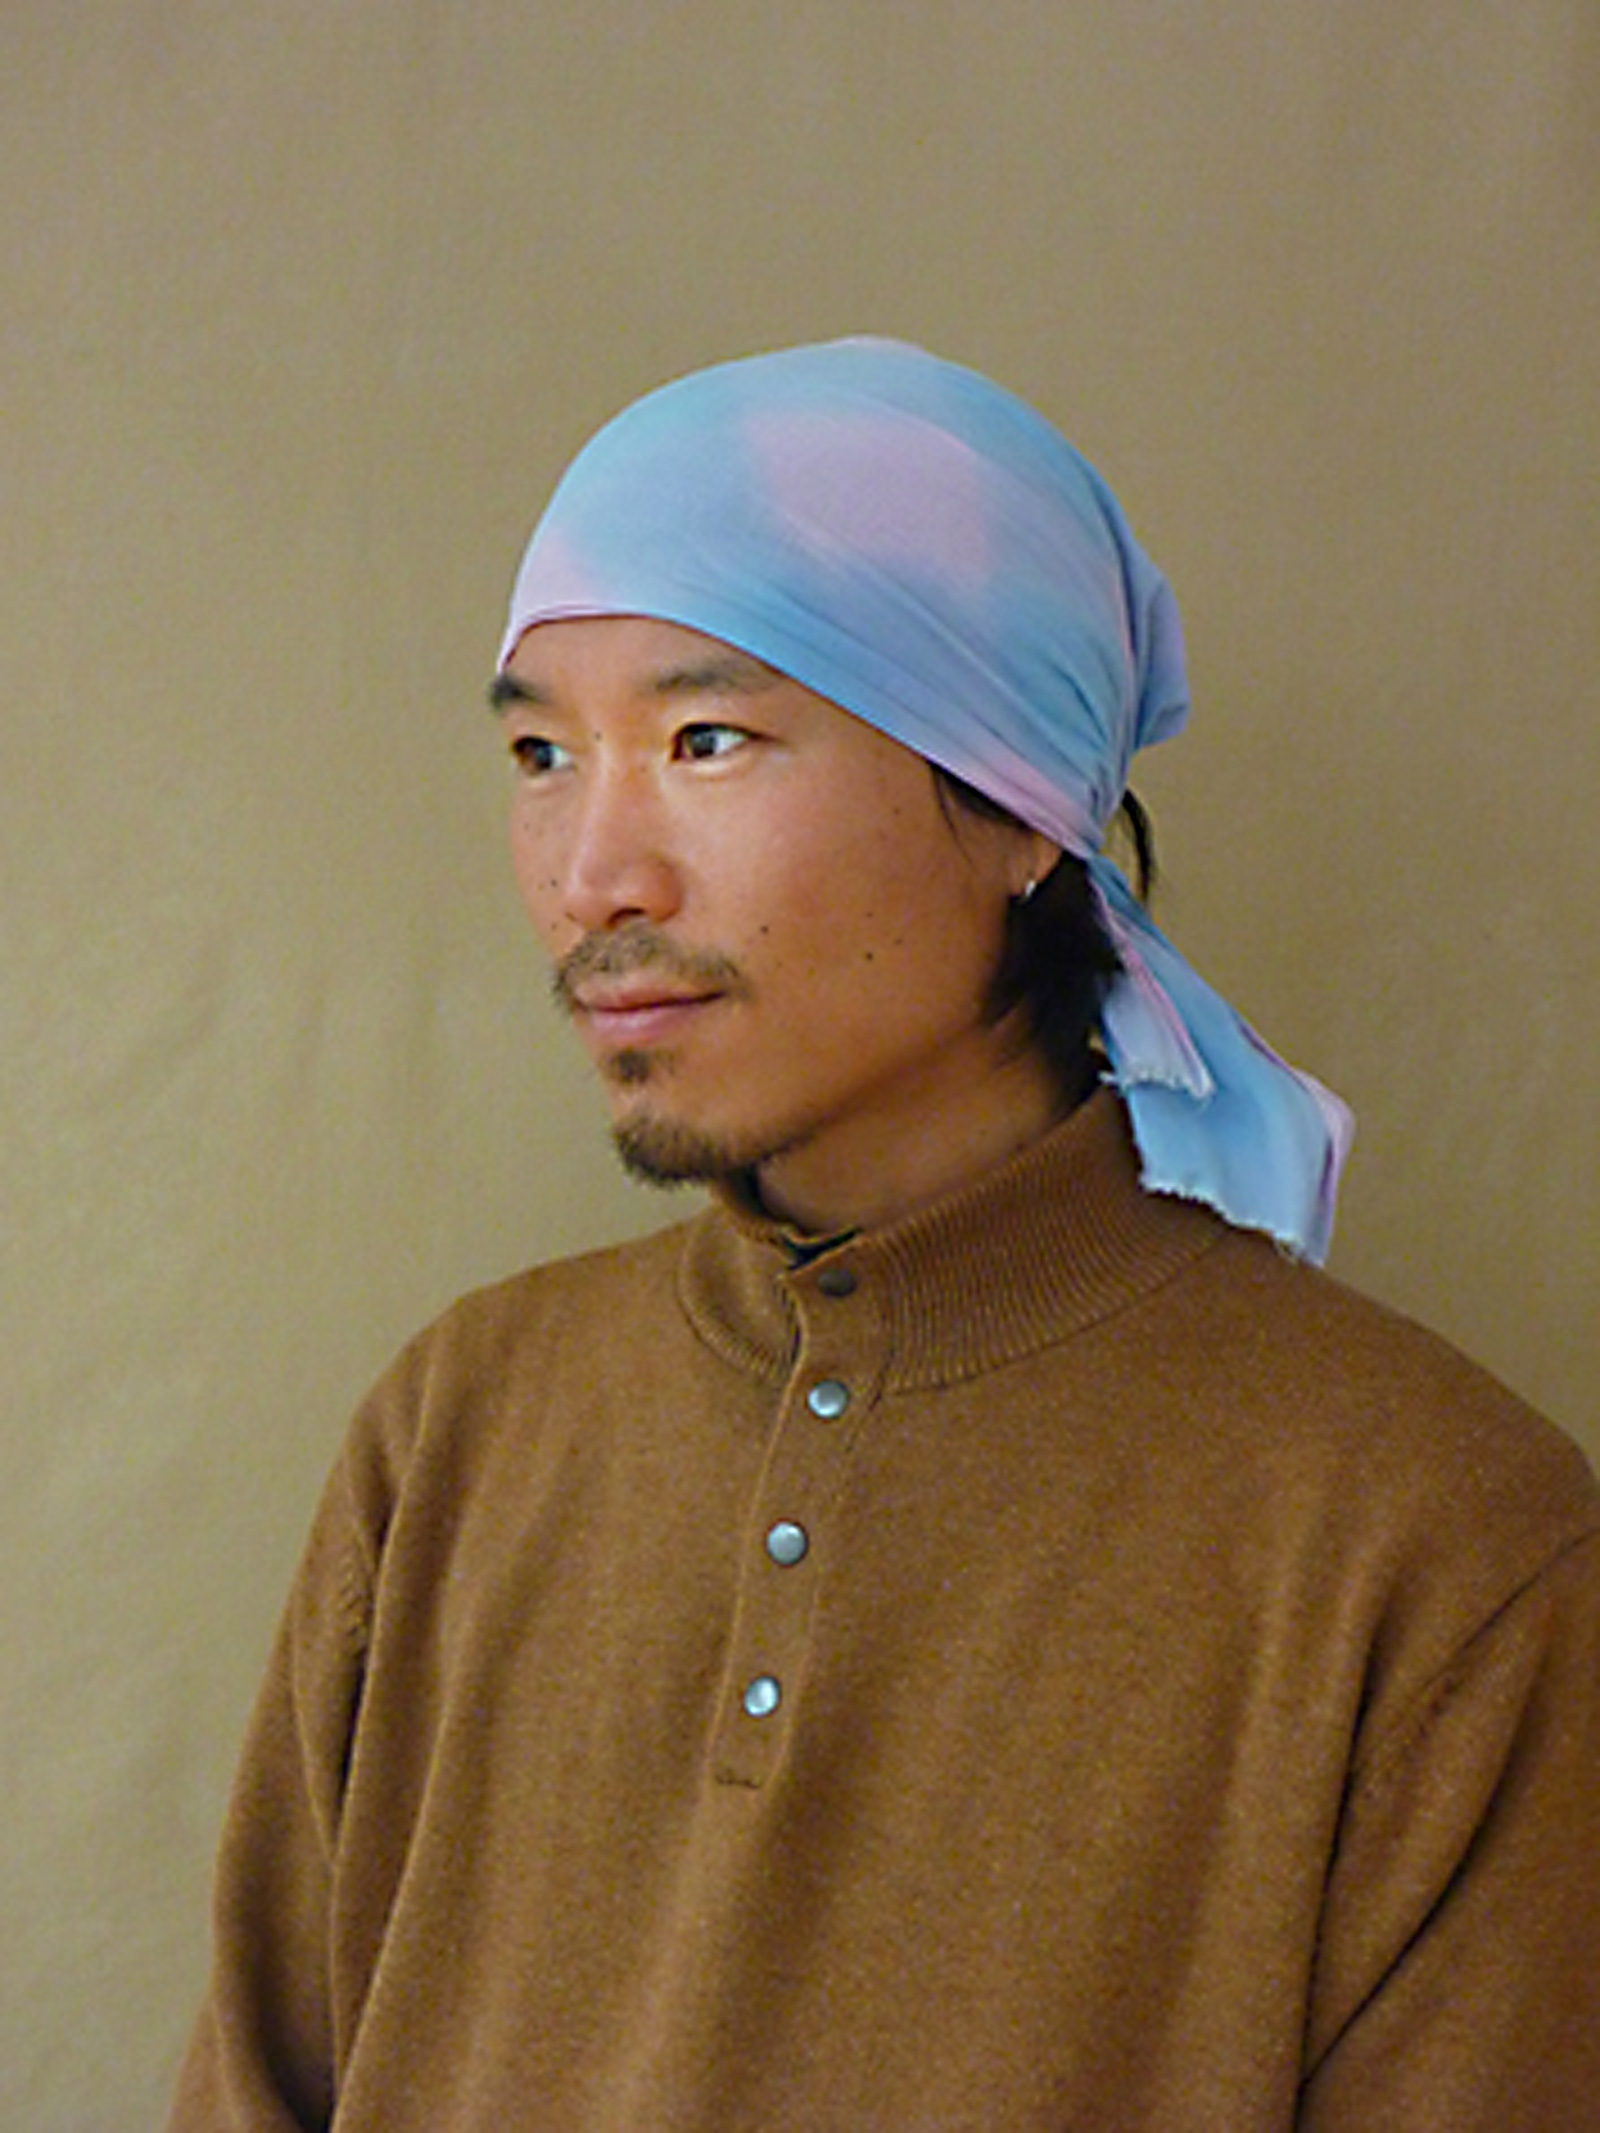
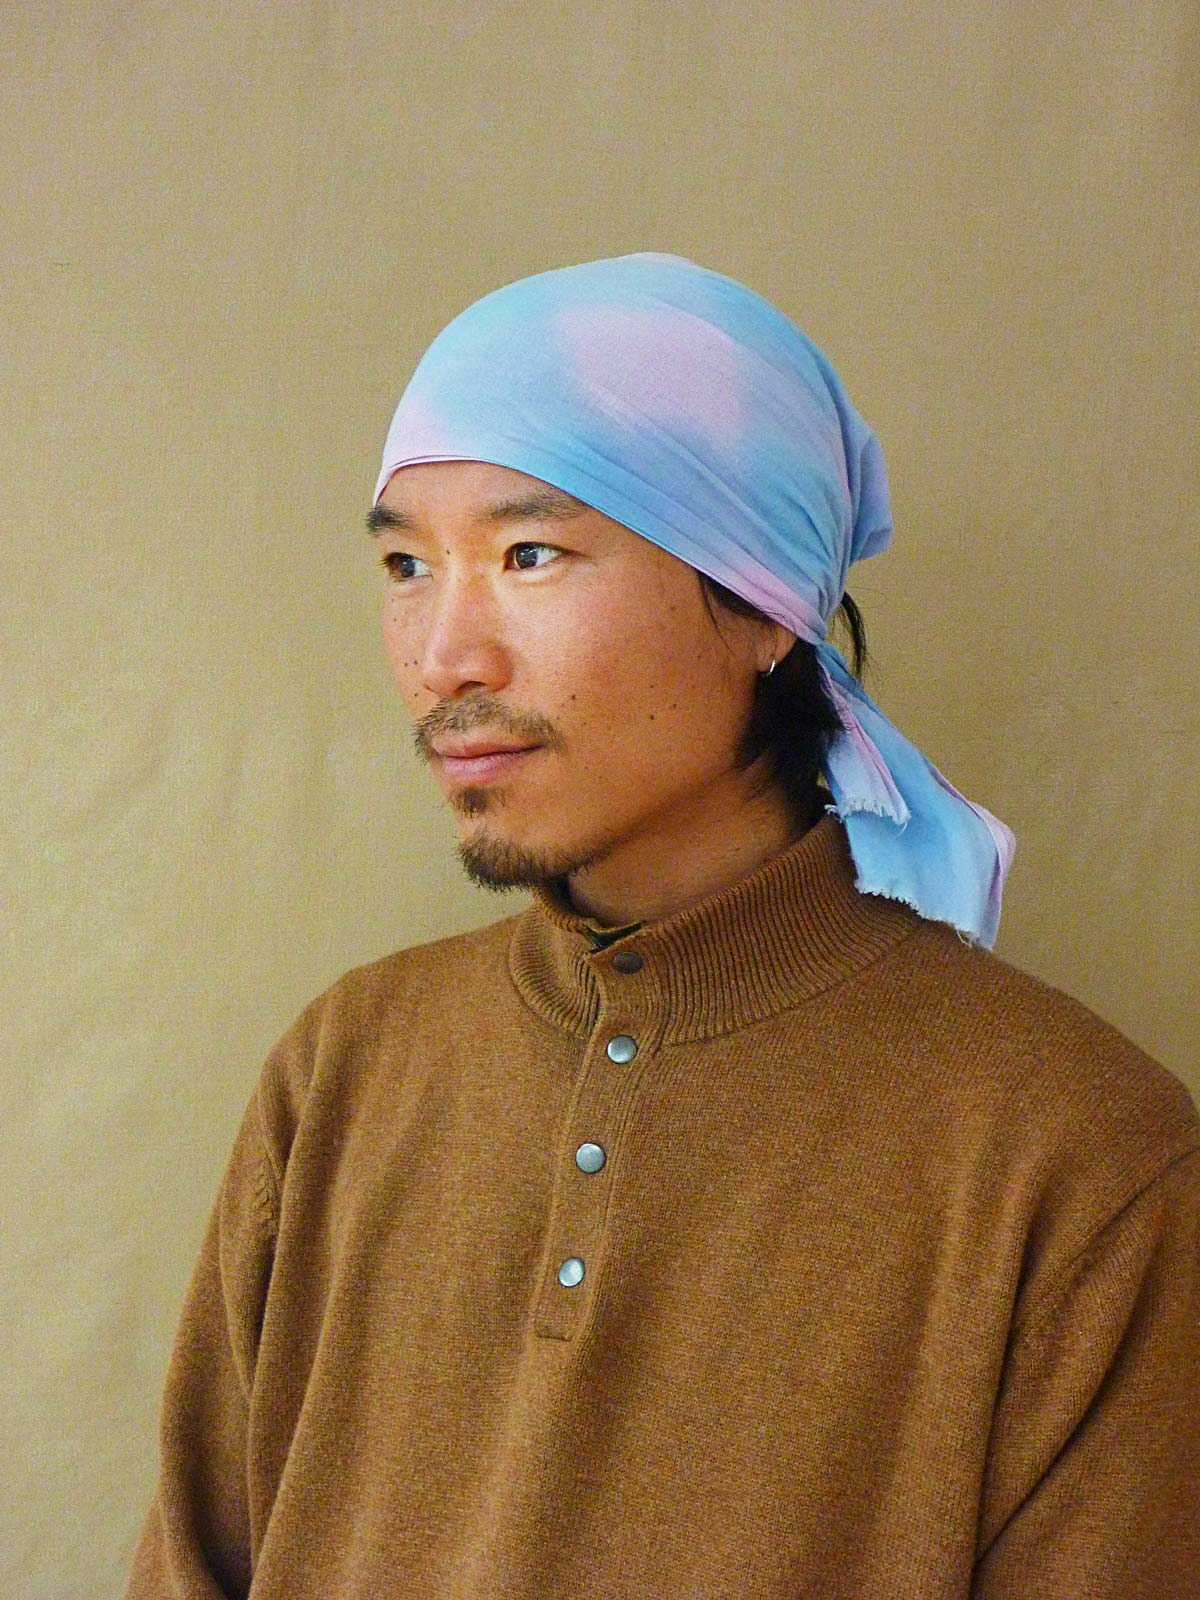
about picture high res added, + pictures are shown as landscape, @Todo: refactor classes

diff --git a/_includes/components.works.html b/_includes/components.works.html
@@ -11,7 +11,24 @@
 <section class="c-work o-flex o-flex--wrap o-flex--align-center">
     <div class="c-work__img {% if thecycle == 'odd' %}c-work__img-left {% else %}c-work__img-right {{ include.class-flex-start }} {% endif %}u-1-of-2-bp4">
         <div class="c-card c-card--alpha c-card--img">
-            {% if include.images %}
+            {% unless include.resume %}
+                {% capture image %}{{ include.images | first }}{% endcapture %}
+                {% if include.images %}
+
+                <div class="c-ratio__wrapper">
+                    {% include atom.image-ratio.html
+
+                        image=image
+                        title=include.title
+                        aria-label=include.title
+
+                    %}
+                </div>
+                {% endif %}
+
+            {% endunless %}
+
+            {% if include.resume %}
             <p class="o-media">
                 <img src="{{ site.github.url }}/img/jpg/{{ include.images | first }}" alt="{{ include.title }}, {{ include.year }}" class="o-media--img{% if include.resume %} u-max-w-650{% endif %}">
             </p>
@@ -21,6 +38,7 @@
 
     <div class="c-work__text {% if thecycle == 'odd' %}c-work__text-right {% else %}c-work__text-left {% endif %}u-1-of-2-bp4">
         <div class="c-card">
+
             {% if include.title %}
             <h2 class="c-card__title">{{ include.title }}</h2>
             <div class="c-card__meta">
@@ -47,7 +65,6 @@
                         image=image
                         title=include.title
                         aria-label=include.title
-                        class='c-thumbnail__img'
                     %}
                 </div>
 

diff --git a/scss/_components.ratio-image.scss b/scss/_components.ratio-image.scss
@@ -4,15 +4,24 @@
     The basic to add an image preserving it ratio, as a div's background.
 */
 
-.c-ratio-image {
-    position: absolute;
-    top: 0;
-    left: 0;
-    width: 100%;
-    height: 100%;
 
-    padding: 3%;
-    background: #fff;
-    background-size: cover;
-    background-position: center;
+.c-ratio__wrapper {
+    position: relative;
+    padding-bottom: 60%;
+    height: 0;
+    margin-bottom: 10px;
+    // border: 7px solid #fff;
 }
+
+    .c-ratio-image {
+        position: absolute;
+        top: 0;
+        left: 0;
+        width: 100%;
+        height: 100%;
+
+        padding: 3%;
+        background: #fff;
+        background-size: cover;
+        background-position: center;
+    }

diff --git a/_includes/components.footer.html b/_includes/components.footer.html
@@ -2,7 +2,7 @@
     <div class="o-container">
         <section class="c-footer o-flex o-flex--wrap">
 
-            <i class="c-logo c-logo--centered c-logo--white-neg c-footer__logo"></i>
+            <i class="c-logo c-logo--centered c-logo c-footer__logo"></i>
 
             <p class="c-footer__title o-flex o-flex--vertical o-flex--justify-center">
                 {{ site.title }} <br>

diff --git a/scss/_components.cards.scss b/scss/_components.cards.scss
@@ -52,7 +52,15 @@
 .c-card--img {
     margin-bottom: 0;
 
+    // img {
+    //     max-height: 336px;
+    // }
+
     @include mq(bp3, max) {
         @include padding-lr(0);
+
+        // img {
+        //     max-height: 100%;
+        // }
     }
 }
